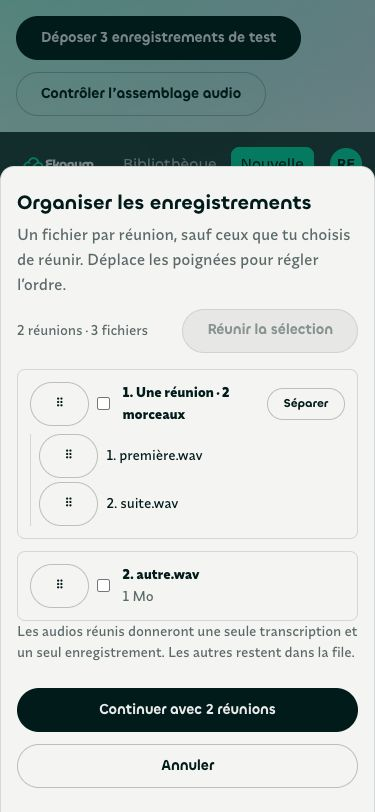
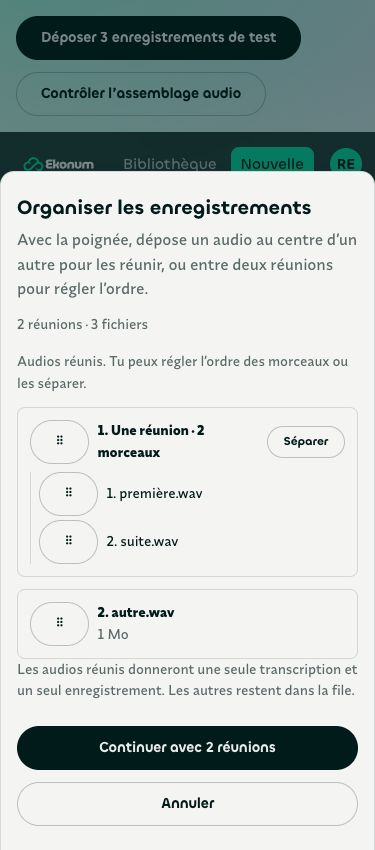
feat(web): ✨ Réunir les audios avec les poignées

diff --git a/web/client/src/components/FileOrganizer.jsx b/web/client/src/components/FileOrganizer.jsx
@@ -1,30 +1,36 @@
 import { useEffect, useRef, useState } from 'react';
 import { Bouton, Erreur } from './Communs.jsx';
-import { combineGroups, fileKey, groupsFor, isAudioFile, moveItem, splitGroup } from '../organizer.js';
+import { dropGroup, fileKey, groupsFor, isAudioFile, moveItem, splitGroup } from '../organizer.js';
 import { mergeAudioFiles } from '../merge-audio.js';
 import { fileSize } from '../format.js';
 
 /** Le même geste pour déplacer une réunion ou ses morceaux. Le clavier
  *  et le tactile restent utilisables sans glisser-déposer HTML natif. */
-function OrderHandle({ index, count, scope, onMove, label, disabled }) {
+function OrderHandle({ index, count, scope, onMove, label, disabled, groupDrag, onPick, picked }) {
   const dragging = useRef(false);
   return <button type="button" className="ekn-button ekn-button--subtle shrink-0 touch-none cursor-grab px-2"
-    aria-label={`Déplacer ${label}`} title="Glisser pour déplacer · flèches ↑ et ↓ au clavier"
+    aria-label={`Déplacer ${label}`} aria-pressed={groupDrag ? Boolean(picked) : undefined}
+    title={groupDrag ? "Glisser au centre pour réunir, au bord pour déplacer · Entrée pour choisir, puis Entrée sur la cible" : "Glisser pour déplacer · flèches ↑ et ↓ au clavier"}
     disabled={disabled} onKeyDown={(event) => {
+      if (groupDrag && event.key === 'Escape') { event.preventDefault(); onPick(true); return; }
       if (!['ArrowUp', 'ArrowDown'].includes(event.key)) return;
       event.preventDefault();
       const target = index + (event.key === 'ArrowUp' ? -1 : 1);
       if (target >= 0 && target < count) onMove(target);
     }} onPointerDown={(event) => {
       if (event.button !== 0) return;
+      if (groupDrag) { groupDrag.start(event); return; }
       dragging.current = true;
       event.currentTarget.setPointerCapture(event.pointerId);
     }} onPointerMove={(event) => {
+      if (groupDrag) { groupDrag.move(event); return; }
       if (!dragging.current) return;
       let target = document.elementFromPoint(event.clientX, event.clientY);
       while (target && target.dataset?.reorderScope !== scope) target = target.parentElement;
       if (target && Number(target.dataset.reorderIndex) !== index) onMove(Number(target.dataset.reorderIndex));
-    }} onPointerUp={() => { dragging.current = false; }} onPointerCancel={() => { dragging.current = false; }}>
+    }} onPointerUp={(event) => { if (groupDrag) groupDrag.end(event); dragging.current = false; }}
+    onPointerCancel={() => { groupDrag?.cancel(); dragging.current = false; }}
+    onClick={(event) => { if (groupDrag && event.detail === 0) onPick(false); }}>
     <span aria-hidden="true">⠿</span>
   </button>;
 }
@@ -33,7 +39,59 @@ export function FileOrganizer({ files, onConfirm, onCancel }) {
   const dialog = useRef(null);
   const controller = useRef(null);
   const [groups, setGroups] = useState(() => groupsFor(files));
-  const [selected, setSelected] = useState(new Set());
+  const gesture = useRef(null);
+  const [drag, setDrag] = useState(null);
+  const [picked, setPicked] = useState(null);
+  const [announcement, setAnnouncement] = useState('');
+  function finishDrop(source, target, zone) {
+    setGroups((current) => dropGroup(current, source, target, zone));
+    requestAnimationFrame(() => dialog.current?.querySelector(`[data-group-id="${target}"] button`)?.focus({ preventScroll: true }));
+    setAnnouncement(zone === 'join' ? 'Audios réunis. Tu peux régler l’ordre des morceaux ou les séparer.' : 'Ordre des réunions modifié.');
+  }
+  function pickGroup(id, cancel) {
+    if (cancel || picked === id) { setPicked(null); setAnnouncement('Sélection annulée.'); return; }
+    if (!picked) { setPicked(id); setAnnouncement('Choisis la poignée de la réunion à rejoindre puis appuie sur Entrée. Échap pour annuler.'); return; }
+    const compatible = [picked, id].every((key) => groups.find((g) => g.id === key)?.files.every((f) => isAudioFile(f) && !f.remote));
+    if (compatible) { finishDrop(picked, id, 'join'); setPicked(null); }
+    else setAnnouncement('Seuls les audios locaux peuvent être réunis.');
+  }
+  function groupDrag(id) {
+    return {
+      start(event) {
+        gesture.current = { id, x: event.clientX, y: event.clientY, active: false };
+        setPicked(null);
+        event.currentTarget.setPointerCapture(event.pointerId);
+      },
+      move(event) {
+        const current = gesture.current;
+        if (!current) return;
+        if (!current.active && Math.hypot(event.clientX - current.x, event.clientY - current.y) < 6) return;
+        current.active = true;
+        let element = document.elementFromPoint(event.clientX, event.clientY);
+        while (element && element.dataset?.reorderScope !== 'meetings') element = element.parentElement;
+        let target = null, zone = null;
+        if (element && element.dataset.groupId !== id) {
+          target = element.dataset.groupId;
+          const rect = element.getBoundingClientRect();
+          const ratio = (event.clientY - rect.top) / rect.height;
+          const compatible = [id, target].every((key) => groups.find((g) => g.id === key)?.files.every((f) => isAudioFile(f) && !f.remote));
+          zone = compatible && ratio > .24 && ratio < .76 ? 'join' : ratio < .5 ? 'before' : 'after';
+        }
+        current.target = target; current.zone = zone;
+        setDrag({ id, target, zone, x: event.clientX, y: event.clientY });
+        const node = dialog.current, box = node.getBoundingClientRect();
+        if (event.clientY < box.top + 60) node.scrollTop -= 12;
+        if (event.clientY > box.bottom - 60) node.scrollTop += 12;
+      },
+      end(event) {
+        const current = gesture.current;
+        if (current?.active && current.target) finishDrop(id, current.target, current.zone);
+        gesture.current = null; setDrag(null);
+        if (event.currentTarget.hasPointerCapture(event.pointerId)) event.currentTarget.releasePointerCapture(event.pointerId);
+      },
+      cancel() { gesture.current = null; setDrag(null); },
+    };
+  }
   const [progress, setProgress] = useState(null);
   const [error, setError] = useState('');
   const busy = progress !== null;
@@ -42,7 +100,7 @@ export function FileOrganizer({ files, onConfirm, onCancel }) {
     if (!node.open) node.showModal();
     return () => controller.current?.abort();
   }, []);
-  const moveGroup = (index, target) => setGroups((current) => moveItem(current, index, target));
+  const moveGroup = (index, target) => { setGroups((current) => moveItem(current, index, target)); setAnnouncement('Ordre des réunions modifié.'); };
   const movePart = (id, index, target) => setGroups((current) => current.map((group) => group.id === id
     ? { ...group, materialized: null, files: moveItem(group.files, index, target) } : group));
 
@@ -72,46 +130,41 @@ export function FileOrganizer({ files, onConfirm, onCancel }) {
     } finally { setProgress(null); }
   }
 
-  const selectable = groups.filter((group) => group.files.every((file) => isAudioFile(file) && !file.remote));
-  const canCombine = [...selected].length >= 2;
   return <dialog ref={dialog} className="ekn-dialog ekn-dialog--wide" aria-labelledby="organizer-title"
-    onCancel={(event) => { if (busy) { event.preventDefault(); controller.current?.abort(); } }}
+    onCancel={(event) => { if (drag || picked) { event.preventDefault(); gesture.current = null; setDrag(null); setPicked(null); } else if (busy) { event.preventDefault(); controller.current?.abort(); } }}
     onClose={() => { if (!busy) onCancel(); }}>
     <h2 id="organizer-title">Organiser les enregistrements</h2>
-    <p>Un fichier par réunion, sauf ceux que tu choisis de réunir. Déplace les poignées pour régler l’ordre.</p>
+    <p>Avec la poignée, dépose un audio au centre d’un autre pour les réunir, ou entre deux réunions pour régler l’ordre.</p>
     <div className="mb-4 flex flex-wrap items-center justify-between gap-2">
       <span className="text-ekn-sm text-ekn-text-muted" aria-live="polite">
         {groups.length} réunion{groups.length > 1 ? 's' : ''} · {groups.reduce((total, group) => total + group.files.length, 0)} fichiers
       </span>
-      {selectable.length > 1 && <Bouton variante="discret" disabled={!canCombine || busy}
-        onClick={() => { setGroups((current) => combineGroups(current, selected)); setSelected(new Set()); }}>
-        Réunir la sélection
-      </Bouton>}
     </div>
-    <ol className="space-y-3" aria-label="Ordre des réunions">
+    <p className="text-ekn-sm text-ekn-text-muted" role="status">{announcement || 'Au clavier : les flèches déplacent ; Entrée choisit une réunion, puis Entrée sur une autre les réunit.'}</p>
+    <ol className="space-y-3 mt-3" aria-label="Ordre des réunions">
       {groups.map((group, index) => {
         const joined = group.files.length > 1;
         const audio = group.files.every((file) => isAudioFile(file) && !file.remote);
         return <li key={group.id} data-reorder-index={index} data-reorder-scope="meetings"
-          className="rounded-lg border border-bord p-3">
+          data-group-id={group.id}
+          data-dragging={drag?.id === group.id || undefined}
+          data-drop={drag?.target === group.id ? drag.zone : undefined}
+          data-picked={picked === group.id || undefined}
+          className="organizer-meeting rounded-lg border border-bord p-3">
           <div className="flex items-center gap-2">
             <OrderHandle index={index} count={groups.length} scope="meetings" label={`la réunion ${index + 1}`}
-              disabled={busy} onMove={(target) => moveGroup(index, target)} />
-            <label className="flex min-w-0 flex-1 items-center gap-3">
-              <input type="checkbox" checked={selected.has(group.id)} disabled={!audio || busy}
-                aria-label={`Sélectionner la réunion ${index + 1}`} onChange={(event) => setSelected((current) => {
-                  const next = new Set(current);
-                  if (event.target.checked) next.add(group.id); else next.delete(group.id);
-                  return next;
-                })} />
+              disabled={busy} onMove={(target) => moveGroup(index, target)} groupDrag={groupDrag(group.id)}
+              picked={picked === group.id} onPick={(cancel) => pickGroup(group.id, cancel)} />
+            <div className="flex min-w-0 flex-1 items-center gap-3">
               <span className="min-w-0 break-words text-ekn-sm">
                 <strong className="block">{index + 1}. {joined ? `Une réunion · ${group.files.length} morceaux` : group.files[0].name}</strong>
                 {!joined && <span className="text-ekn-text-muted">{fileSize(group.files[0].size)}{!audio ? ' · séparé' : ''}</span>}
               </span>
-            </label>
+            </div>
             {joined && <button className="ekn-button ekn-button--subtle ekn-button--compact" disabled={busy}
-              onClick={() => { setGroups((current) => splitGroup(current, group.id)); setSelected(new Set()); }}>Séparer</button>}
+              onClick={() => { setGroups((current) => splitGroup(current, group.id)); setPicked(null); setAnnouncement('Morceaux séparés en réunions indépendantes.'); }}>Séparer</button>}
           </div>
+          {drag?.target === group.id && drag.zone === 'join' && <p className="organizer-drop-label" aria-hidden="true">Relâche pour ajouter à cette réunion</p>}
           {joined && <ol className="mt-2 space-y-1 border-l border-bord pl-2 sm:ml-10" aria-label={`Morceaux de la réunion ${index + 1}`}>
             {group.files.map((file, part) => <li key={fileKey(file)} className="flex min-w-0 items-center gap-2"
               data-reorder-index={part} data-reorder-scope={group.id}>
@@ -123,6 +176,9 @@ export function FileOrganizer({ files, onConfirm, onCancel }) {
         </li>;
       })}
     </ol>
+    {drag && <div className="organizer-ghost" aria-hidden="true" style={{ left: Math.min(drag.x + 12, window.innerWidth - 220), top: drag.y + 14 }}>
+      {drag.zone === 'join' ? '＋ Réunir les audios' : '⠿ Déplacer la réunion'}
+    </div>}
     <p className="mt-4 text-ekn-sm">Les audios réunis donneront une seule transcription et un seul enregistrement. Les autres restent dans la file.</p>
     <Erreur>{error}</Erreur>
     {busy && <p role="status">{progress}</p>}

diff --git a/web/client/tests/browser.html b/web/client/tests/browser.html
@@ -1,5 +1,5 @@
 <!doctype html><html lang="fr" data-ekn-theme="auto"><meta charset="utf-8"><meta name="viewport" content="width=device-width,initial-scale=1"><title>Recette Transcript</title>
-<body><div class="flex flex-wrap gap-3 p-4"><button id="deposit" class="ekn-button">Déposer 3 enregistrements de test</button><button id="audio" class="ekn-button ekn-button--subtle">Contrôler l’assemblage audio</button><output id="result" role="status"></output></div><div id="root"></div>
+<body><div class="flex flex-wrap gap-3 p-4"><button id="deposit" class="ekn-button">Déposer 3 enregistrements de test</button><button id="audio" class="ekn-button ekn-button--subtle">Contrôler l’assemblage audio</button><button id="export" class="ekn-button ekn-button--subtle">Exporter l’assemblage de recette</button><output id="result" role="status"></output></div><div id="root"></div>
 <script type="module">
 import React from 'react';import{createRoot}from'react-dom/client';import App from'/src/App.jsx';import'/src/styles.css';import'/vendor/ekonum-ui/ekonum-ui.js';
 import{mergeAudioFiles}from'/src/merge-audio.js';import{Input,ALL_FORMATS,BlobSource,AudioSampleSink}from'mediabunny';
@@ -25,13 +25,14 @@ window.fetch=async(url,options)=>{
  if(path==='/api/probe'){probes++;document.querySelector('#result').textContent=probes+' recherches effectuées';await new Promise(r=>setTimeout(r,500));data={clues:{resume:'Réunion de test',organisations:['Odoo'],personnes:[]},candidates:[],odoo:true,investigation:{auto:false}};}
  return new Response(JSON.stringify(data),{headers:{'Content-Type':'application/json','X-Total-Count':'0'}});
 };
-async function fixtures(){return Promise.all(['première.wav','suite.wav','autre.wav'].map(async(name)=>new File([await(await nativeFetch('/tests/_fixtures/'+name)).blob()],name,{type:'audio/wav',lastModified:1700000000000})));}
+async function fixtures(){return Promise.all((new URLSearchParams(location.search).has('spoken')?['recette-partie-1.m4a','recette-partie-2.m4a','autre.wav']:['première.wav','suite.wav','autre.wav']).map(async(name)=>new File([await(await nativeFetch('/tests/_fixtures/'+name)).blob()],name,{type:name.endsWith('.m4a')?'audio/mp4':'audio/wav',lastModified:1700000000000})));}
 document.querySelector('#deposit').onclick=async()=>{
  const files=await fixtures();const transfer=new DataTransfer();files.forEach(f=>transfer.items.add(f));
  const zone=document.querySelector('input[type=file]')?.parentElement;
  if(!zone){document.querySelector('#result').textContent='Ouvrir Nouvelle transcription';return;}
  zone.dispatchEvent(new DragEvent('drop',{bubbles:true,cancelable:true,dataTransfer:transfer}));
 };
+document.querySelector('#export').onclick=async()=>{const [a,b]=await fixtures();const joined=await mergeAudioFiles([a,b]);const link=document.createElement('a');link.href=URL.createObjectURL(joined);link.download='RECETTE-CODEX-reunion-complete.m4a';link.click();setTimeout(()=>URL.revokeObjectURL(link.href),1000);};
 async function frequency(file,at){const input=new Input({formats:ALL_FORMATS,source:new BlobSource(file)});try{const sample=await new AudioSampleSink(await input.getPrimaryAudioTrack()).getSample(at);const floats=new Float32Array(sample.numberOfFrames);sample.copyTo(floats,{planeIndex:0,format:'f32-planar'});let crosses=0;for(let i=1;i<floats.length;i++)if(floats[i-1]<0&&floats[i]>=0)crosses++;const value=crosses*sample.sampleRate/floats.length;sample.close();return value;}finally{input.dispose();}}
 document.querySelector('#audio').onclick=async()=>{const result=document.querySelector('#result');result.textContent='Contrôle en cours…';try{
  const [a,b]=await fixtures();const joined=await mergeAudioFiles([a,b],{onProgress:p=>result.textContent='Normalisation '+Math.round(p.ratio*100)+' %'});const reverse=await mergeAudioFiles([b,a]);

diff --git a/web/client/tests/organizer.test.js b/web/client/tests/organizer.test.js
@@ -1,12 +1,12 @@
 import { test } from 'node:test';
 import assert from 'node:assert/strict';
-import { combineGroups, fileKey, groupsFor, moveItem, splitGroup, uniqueFiles } from '../src/organizer.js';
+import { dropGroup, fileKey, groupsFor, moveItem, splitGroup, uniqueFiles } from '../src/organizer.js';
 
 const file = (name, type = 'audio/mp4') => new File(['audio'], name, { type, lastModified: 1700000000000 });
-test('réunir une sélection non contiguë conserve tous les fichiers et leur ordre', () => {
+test('réunir des audios non contigus conserve tous les fichiers et leur ordre', () => {
   const files = ['partie1.m4a', 'autre.m4a', 'partie2.m4a', 'encore.m4a'].map((name) => file(name));
   const groups = groupsFor(files);
-  const combined = combineGroups(groups, new Set([groups[0].id, groups[2].id]));
+  const combined = dropGroup(groups, groups[2].id, groups[0].id, 'join');
   assert.deepEqual(combined.map((group) => group.files.map((f) => f.name)), [
     ['partie1.m4a', 'partie2.m4a'], ['autre.m4a'], ['encore.m4a'],
   ]);
@@ -26,11 +26,34 @@ test('le même dépôt ne duplique pas un fichier et ne modifie pas les listes s
 test('les vidéos et enregistrements distants restent séparés', () => {
   const video = file('réunion.mp4', 'video/mp4');
   const groups = groupsFor([file('partie.m4a'), video]);
-  assert.equal(combineGroups(groups, new Set(groups.map((g) => g.id))), groups);
+  assert.equal(dropGroup(groups, groups[0].id, groups[1].id, 'join'), groups);
 });
 test('changer l’ordre des morceaux invalide le contexte même à taille et date identiques', () => {
   const a = file('a.m4a'), b = file('b.m4a'), c = file('c.m4a');
   const first = file('réunion.m4a'), second = file('réunion.m4a');
   first.mergedParts = [a, b, c]; second.mergedParts = [a, c, b];
   assert.notEqual(fileKey(first), fileKey(second));
+});
+
+test('déposer au centre ajoute au groupe cible sans perdre de fichiers', () => {
+  const groups = groupsFor(['a.m4a', 'b.m4a', 'c.m4a', 'd.m4a'].map((name) => file(name)));
+  const joined = dropGroup(groups, groups[0].id, groups[1].id, 'join');
+  assert.deepEqual(joined.map((g) => g.files.map((f) => f.name)), [['b.m4a', 'a.m4a'], ['c.m4a'], ['d.m4a']]);
+  const extended = dropGroup(joined, groups[3].id, groups[1].id, 'join');
+  assert.deepEqual(extended[0].files.map((f) => f.name), ['b.m4a', 'a.m4a', 'd.m4a']);
+  assert.equal(extended[0].materialized, undefined);
+  assert.equal(extended.flatMap((g) => g.files).length, 4);
+  assert.equal(groups.length, 4);
+});
+
+test('déposer aux bords réordonne sans fusionner et les cibles invalides restent intactes', () => {
+  const groups = groupsFor([file('a.m4a'), file('b.m4a'), file('video.mp4', 'video/mp4')]);
+  assert.deepEqual(dropGroup(groups, groups[0].id, groups[2].id, 'after').map((g) => g.id), [groups[1].id, groups[2].id, groups[0].id]);
+  assert.deepEqual(dropGroup(groups, groups[2].id, groups[0].id, 'before').map((g) => g.id), [groups[2].id, groups[0].id, groups[1].id]);
+  assert.equal(dropGroup(groups, groups[0].id, groups[2].id, 'join'), groups);
+  assert.equal(dropGroup(groups, groups[0].id, groups[0].id, 'join'), groups);
+  assert.equal(dropGroup(groups, 'absent', groups[0].id, 'join'), groups);
+  const remote = file('remote.m4a'); remote.remote = true;
+  const distant = groupsFor([remote, file('local.m4a')]);
+  assert.equal(dropGroup(distant, distant[0].id, distant[1].id, 'join'), distant);
 });

diff --git a/web/client/src/styles.css b/web/client/src/styles.css
@@ -165,3 +165,35 @@ h1, h2, h3, .titre { font-family: var(--font-titre); }
   .verre { background: var(--app-carte); }
   .verre-sombre { background: var(--color-fonce); }
 }
+
+/* La matière paraît pendant le geste : centre aimanté, bords d'insertion. */
+.organizer-meeting { position: relative; transition: transform 180ms cubic-bezier(.2,.8,.2,1), background 180ms, border-color 180ms; }
+.organizer-meeting[data-dragging] { opacity: .5; transform: scale(.98); }
+.organizer-meeting[data-picked] { outline: 2px solid var(--ekn-focus); outline-offset: 2px; }
+.organizer-meeting[data-drop="join"] {
+  background: var(--app-verre-fond); backdrop-filter: blur(14px) saturate(1.2);
+  border-color: var(--ekn-action);
+  box-shadow: inset 0 0 0 1px var(--ekn-action), 0 6px 20px -12px var(--app-verre-ombre-portee);
+  transform: scale(1.015);
+}
+.organizer-meeting[data-drop="before"]::before, .organizer-meeting[data-drop="after"]::after {
+  content: ''; position: absolute; left: 0; right: 0; height: 3px;
+  background: var(--ekn-action); border-radius: 3px;
+}
+.organizer-meeting[data-drop="before"]::before { top: -8px; }
+.organizer-meeting[data-drop="after"]::after { bottom: -8px; }
+.organizer-drop-label {
+  position: absolute; right: 8px; bottom: -10px; z-index: 2;
+  padding: 2px 8px; border-radius: 6px; font-size: 14px;
+  background: var(--ekn-action); color: var(--ekn-on-action); pointer-events: none;
+}
+.organizer-ghost {
+  position: fixed; z-index: 3; pointer-events: none; max-width: 210px;
+  padding: 10px 14px; border-radius: 14px; font-size: 14px;
+  background: var(--app-verre-fond); color: var(--ekn-text);
+  backdrop-filter: blur(18px) saturate(1.2); border: 1px solid var(--ekn-action);
+  box-shadow: 0 8px 24px -10px var(--app-verre-ombre-portee);
+}
+@media (prefers-reduced-motion: reduce) {
+  .organizer-meeting { transition: none; transform: none; }
+}

diff --git a/web/client/src/organizer.js b/web/client/src/organizer.js
@@ -27,11 +27,21 @@ export function moveItem(items, from, to) {
   return next;
 }
 
-export function combineGroups(groups, selected) {
-  const chosen = groups.filter((group) => selected.has(group.id));
-  if (chosen.length < 2 || chosen.some((group) => group.files.some((file) => !isAudioFile(file) || file.remote))) return groups;
-  const joined = { id: chosen[0].id, files: chosen.flatMap((group) => group.files) };
-  return groups.flatMap((group) => group === chosen[0] ? [joined] : selected.has(group.id) ? [] : [group]);
+/** Le centre ajoute les morceaux à la fin de la réunion cible ; les
+ * bords changent seulement la place dans la file. */
+export function dropGroup(groups, sourceId, targetId, zone) {
+  const source = groups.find((group) => group.id === sourceId);
+  const target = groups.find((group) => group.id === targetId);
+  if (!source || !target || source === target) return groups;
+  if (zone === 'join') {
+    if ([source, target].some((group) => group.files.some((file) => !isAudioFile(file) || file.remote))) return groups;
+    return groups.filter((group) => group !== source).map((group) => group === target
+      ? { id: target.id, files: [...target.files, ...source.files] } : group);
+  }
+  if (!['before', 'after'].includes(zone)) return groups;
+  const next = groups.filter((group) => group !== source);
+  next.splice(next.indexOf(target) + (zone === 'after' ? 1 : 0), 0, source);
+  return next;
 }
 
 export function splitGroup(groups, id) {

diff --git a/web/client/tests/README.md b/web/client/tests/README.md
@@ -16,8 +16,12 @@ une API simulée et des sons synthétiques locaux. Elle n'appelle aucun
 service distant, ne lance aucune transcription et ne publie rien dans Odoo.
 
 - Ouvrir « Nouvelle transcription », puis « Déposer 3 enregistrements de test ».
-- Sélectionner les deux premiers fichiers, les réunir, déplacer un morceau
-  puis la réunion avec les poignées et avec les flèches du clavier.
+- Avec la poignée, déposer le deuxième audio au centre du premier : deux
+  réunions doivent rester. Ajouter le troisième au groupe, puis séparer.
+- Déposer au bord d’une autre réunion : seul l’ordre change. Vérifier aussi
+  un relâchement hors cible, Échap, le tactile et les flèches du clavier.
+- Au clavier, Entrée sur la poignée choisit la réunion ; Entrée sur une
+  autre poignée les réunit. Échap annule le choix.
 - Vérifier « Séparer », puis « Annuler » : la file existante doit rester intacte.
 - Valider un regroupement : la première réunion s'ouvre, le contexte de la
   suivante se prépare. Lancer la suivante depuis « À lancer » doit afficher

diff --git a/web/docs/BACKLOG.md b/web/docs/BACKLOG.md
@@ -9,11 +9,15 @@ Branche `codex/organiser-enregistrements`, préparée et testée localement :
 fenêtre de regroupement des morceaux audio, ordre des morceaux et de la
 file, puis préparation du contexte des réunions suivantes en arrière-plan.
 La fusion reste sur le poste. Pas de migration de données, de nouveau
-service ni de publication automatique dans Odoo. Mise en production à valider.
+service ni de publication automatique dans Odoo. Mise en production autorisée par Robin le 23/10 ; recette finale en cours.
 
 La même branche distingue un module audio indisponible d'un fichier
 illisible et propose un rechargement explicite, protégé pendant les
 envois, compressions et archivages locaux.
+
+Le dépôt au centre réunit les audios ; les bords réordonnent la file.
+Le geste utilise une cible vitrée temporaire et une animation réduite
+selon les préférences système. Entrée sur deux poignées réunit au clavier.
 
 Le `<dialog>` et les boutons viennent d'ekonum-ui 3.15.0. Les poignées
 d'ordre et le regroupement sont propres à ce parcours ; cette version du

diff --git a/web/README.md b/web/README.md
@@ -149,10 +149,11 @@ de démarrer si ni l'un ni l'autre n'est configuré.
 ### Enregistrements en plusieurs parties et file d'attente
 
 Déposer plusieurs fichiers ouvre « Organiser les enregistrements ».
-Ils restent séparés par défaut : sélectionner les audios d'une même
-réunion, puis « Réunir la sélection », crée une seule réunion. Les
-poignées ordonnent les réunions et leurs morceaux ; les flèches haut/bas
-du clavier font le même déplacement. « Séparer » et « Annuler » permettent
+Ils restent séparés par défaut. Avec la poignée, déposer un audio au
+centre d’un autre les réunit ; le déposer au bord change seulement l’ordre.
+On peut ajouter d’autres audios à un groupe et ordonner ses morceaux.
+Au clavier, les flèches déplacent ; Entrée choisit la réunion, puis Entrée
+sur une autre poignée les réunit. Échap annule le choix. « Séparer » et « Annuler » permettent
 de revenir sur ce choix. « Organiser » rouvre la fenêtre depuis la file.
 
 La fusion audio se fait sur le poste, vers un fichier temporaire privé
